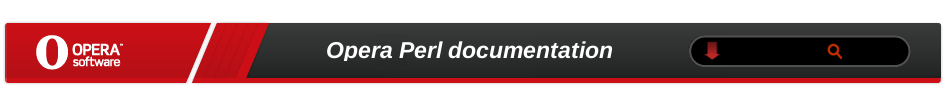
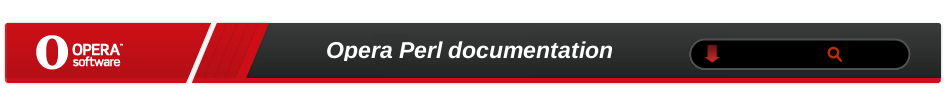
More customizations to allow it to work on a given project

Changed region(s): [[0.7051, 0.4857, 0.981, 0.6857], [0.7051, 0.3429, 0.981, 0.4571], [0.8584, 0.4286, 0.889, 0.5714]]

diff --git a/static/css-opera.css b/static/css-opera.css
@@ -17,7 +17,7 @@
 /* @group Layout */
 
 body {
-	background-color: #300000;
+	background-color: #606060;
 	margin: 0;
 	font-family: "Helvetica Neue", Arial, Helvetica, Geneva, sans-serif;
 }
@@ -303,7 +303,7 @@ div.side_group {
 
 div.side_panel {
 	width: 130px;
-	background: #3b3b3b url(combined-20090925.png) no-repeat 0 -216px;
+	background: #3b3b3b url(combined-opera.png) no-repeat 0 -216px;
 	color: #d8d8d8;
 	padding-right: 8px;
 	font: .8em "Helvetica Neue", Arial, Helvetica, Geneva, sans-serif;
@@ -320,15 +320,15 @@ div.side_panel p {
 }
 
 div.doc_panel p {
-	background: url(combined-20090925.png) -648px -153px;
+	background: url(combined-opera.png) -648px -153px;
 }
 
 div.links_panel p {
-	background: url(combined-20090925.png) -786px -153px;
+	background: url(combined-opera.png) -786px -153px;
 }
 
 div.tools_panel p {
-	background: url(combined-20090925.png) -648px -194px;
+	background: url(combined-opera.png) -648px -194px;
 }
 
 div.side_panel ul {
